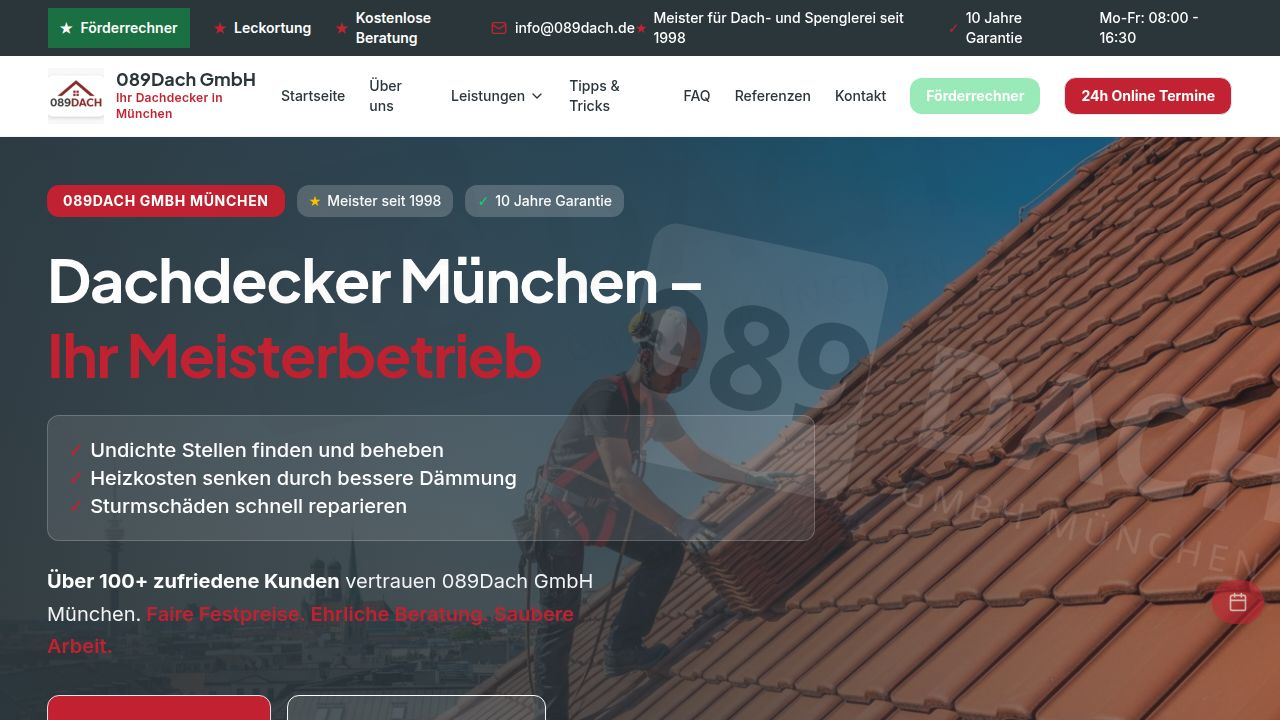
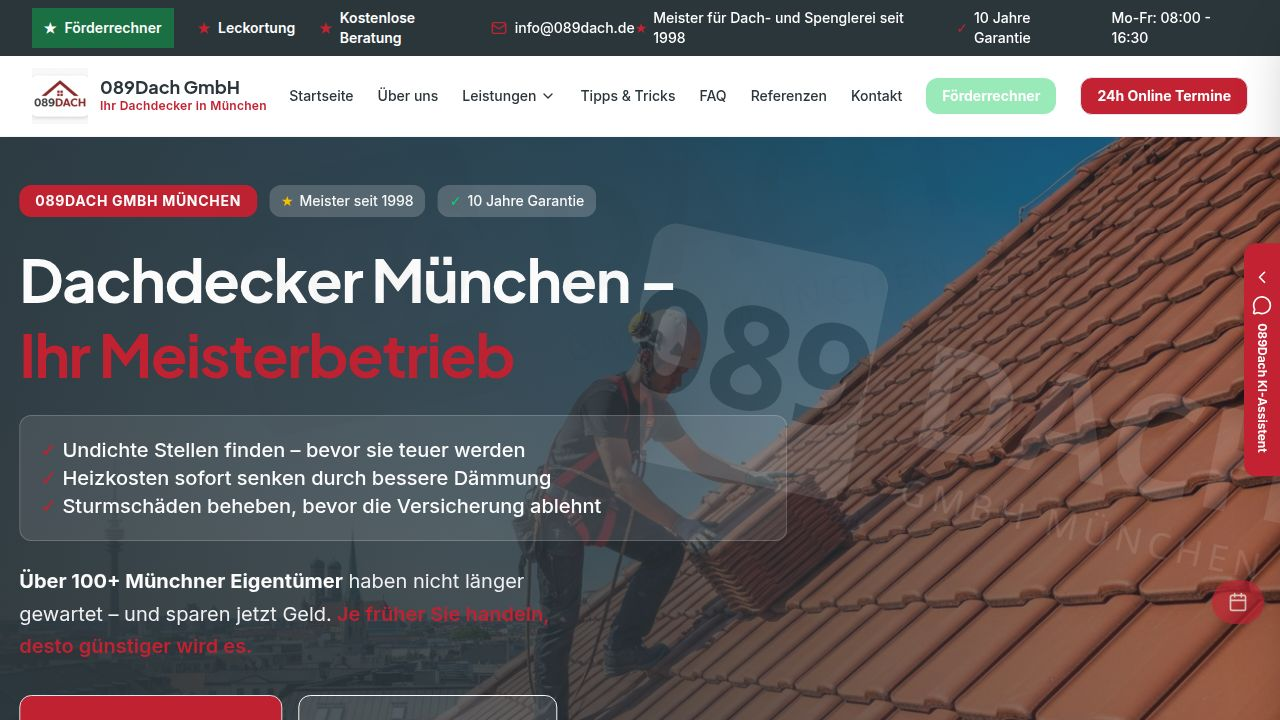
Add AI chat assistant to website and update quick questions
Integrate the ChatWidget component into the main App layout and modify the initial quick questions within ChatWidget.tsx to remove the "Welche Förderungen gibt es?" (What subsidies are available?) option and add "Arbeiten Sie auch in meinem Stadtteil?" (Do you also work in my district?).

Replit-Commit-Author: Agent
Replit-Commit-Session-Id: b0c69f01-3555-4778-8732-2c634b65b635
Replit-Commit-Checkpoint-Type: full_checkpoint
Replit-Commit-Event-Id: 88ba2bec-3f41-4651-a0fc-c0e62f365edf
Replit-Commit-Screenshot-Url: https://storage.googleapis.com/screenshot-production-us-central1/c3cfe89b-bd5d-4dc1-a831-1716e6b0ba0d/b0c69f01-3555-4778-8732-2c634b65b635/WjNsB8o
Replit-Helium-Checkpoint-Created: true

diff --git a/client/src/App.tsx b/client/src/App.tsx
@@ -11,6 +11,7 @@ import BackgroundLogo from "@/components/BackgroundLogo";
 import { LocalBusinessSchema } from "@/components/SEO";
 import FloatingCTA from "@/components/FloatingCTA";
 import Redirect from "@/components/Redirect";
+import ChatWidget from "@/components/ChatWidget";
 
 interface ErrorBoundaryState {
   hasError: boolean;
@@ -383,6 +384,7 @@ function App() {
         <BackgroundLogo />
         <Router />
         <FloatingCTA />
+        <ChatWidget />
         <CookieConsent />
         <Toaster />
       </TooltipProvider>

diff --git a/client/src/components/ChatWidget.tsx b/client/src/components/ChatWidget.tsx
@@ -11,7 +11,7 @@ interface Message {
 const quickQuestions = [
   "Was kostet eine Dachsanierung?",
   "Wie erkenne ich Dachschäden?",
-  "Welche Förderungen gibt es?",
+  "Arbeiten Sie auch in meinem Stadtteil?",
   "Wie lange dauert eine Reparatur?",
 ];
 
